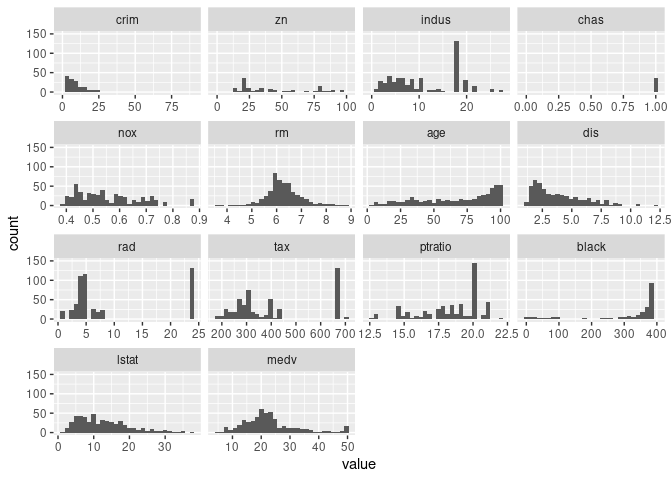
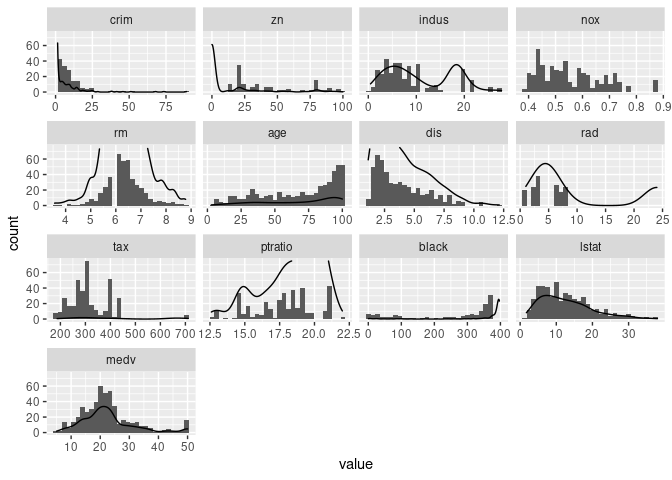
add gbm and clean up

diff --git a/BostonHousing.md b/BostonHousing.md
@@ -30,7 +30,7 @@ for our data
 Next we look at some basic information about how its captured
 
 ``` r
-str(Boston)
+str(df)
 ```
 
     ## 'data.frame':    506 obs. of  14 variables:
@@ -52,42 +52,48 @@ str(Boston)
 This shows us that all of our variables are numeric, with chas and rad
 being integers. As you can see from the dictionary above, chas is a
 dummy variable representing whether or not the tract bounds the river,
-so it’s best described as binary in this instance. Rad is listed as an
-index of accessibility, so I take this as being equivalent to a
-continuous variable like the others.
+so it’s best described as binary in this instance. I’m going to change
+it to a factor so it doesn’t mess with any of our calculations later.
 
 ``` r
-summary(Boston)
+df$chas <- as.factor(df$chas)
 ```
 
-    ##       crim                zn             indus            chas        
-    ##  Min.   : 0.00632   Min.   :  0.00   Min.   : 0.46   Min.   :0.00000  
-    ##  1st Qu.: 0.08205   1st Qu.:  0.00   1st Qu.: 5.19   1st Qu.:0.00000  
-    ##  Median : 0.25651   Median :  0.00   Median : 9.69   Median :0.00000  
-    ##  Mean   : 3.61352   Mean   : 11.36   Mean   :11.14   Mean   :0.06917  
-    ##  3rd Qu.: 3.67708   3rd Qu.: 12.50   3rd Qu.:18.10   3rd Qu.:0.00000  
-    ##  Max.   :88.97620   Max.   :100.00   Max.   :27.74   Max.   :1.00000  
-    ##       nox               rm             age              dis        
-    ##  Min.   :0.3850   Min.   :3.561   Min.   :  2.90   Min.   : 1.130  
-    ##  1st Qu.:0.4490   1st Qu.:5.886   1st Qu.: 45.02   1st Qu.: 2.100  
-    ##  Median :0.5380   Median :6.208   Median : 77.50   Median : 3.207  
-    ##  Mean   :0.5547   Mean   :6.285   Mean   : 68.57   Mean   : 3.795  
-    ##  3rd Qu.:0.6240   3rd Qu.:6.623   3rd Qu.: 94.08   3rd Qu.: 5.188  
-    ##  Max.   :0.8710   Max.   :8.780   Max.   :100.00   Max.   :12.127  
-    ##       rad              tax           ptratio          black       
-    ##  Min.   : 1.000   Min.   :187.0   Min.   :12.60   Min.   :  0.32  
-    ##  1st Qu.: 4.000   1st Qu.:279.0   1st Qu.:17.40   1st Qu.:375.38  
-    ##  Median : 5.000   Median :330.0   Median :19.05   Median :391.44  
-    ##  Mean   : 9.549   Mean   :408.2   Mean   :18.46   Mean   :356.67  
-    ##  3rd Qu.:24.000   3rd Qu.:666.0   3rd Qu.:20.20   3rd Qu.:396.23  
-    ##  Max.   :24.000   Max.   :711.0   Max.   :22.00   Max.   :396.90  
-    ##      lstat            medv      
-    ##  Min.   : 1.73   Min.   : 5.00  
-    ##  1st Qu.: 6.95   1st Qu.:17.02  
-    ##  Median :11.36   Median :21.20  
-    ##  Mean   :12.65   Mean   :22.53  
-    ##  3rd Qu.:16.95   3rd Qu.:25.00  
-    ##  Max.   :37.97   Max.   :50.00
+Rad is listed as an index of accessibility, so I take this as being
+equivalent to a continuous variable like the others.
+
+``` r
+summary(df)
+```
+
+    ##       crim                zn             indus       chas         nox        
+    ##  Min.   : 0.00632   Min.   :  0.00   Min.   : 0.46   0:471   Min.   :0.3850  
+    ##  1st Qu.: 0.08205   1st Qu.:  0.00   1st Qu.: 5.19   1: 35   1st Qu.:0.4490  
+    ##  Median : 0.25651   Median :  0.00   Median : 9.69           Median :0.5380  
+    ##  Mean   : 3.61352   Mean   : 11.36   Mean   :11.14           Mean   :0.5547  
+    ##  3rd Qu.: 3.67708   3rd Qu.: 12.50   3rd Qu.:18.10           3rd Qu.:0.6240  
+    ##  Max.   :88.97620   Max.   :100.00   Max.   :27.74           Max.   :0.8710  
+    ##        rm             age              dis              rad        
+    ##  Min.   :3.561   Min.   :  2.90   Min.   : 1.130   Min.   : 1.000  
+    ##  1st Qu.:5.886   1st Qu.: 45.02   1st Qu.: 2.100   1st Qu.: 4.000  
+    ##  Median :6.208   Median : 77.50   Median : 3.207   Median : 5.000  
+    ##  Mean   :6.285   Mean   : 68.57   Mean   : 3.795   Mean   : 9.549  
+    ##  3rd Qu.:6.623   3rd Qu.: 94.08   3rd Qu.: 5.188   3rd Qu.:24.000  
+    ##  Max.   :8.780   Max.   :100.00   Max.   :12.127   Max.   :24.000  
+    ##       tax           ptratio          black            lstat      
+    ##  Min.   :187.0   Min.   :12.60   Min.   :  0.32   Min.   : 1.73  
+    ##  1st Qu.:279.0   1st Qu.:17.40   1st Qu.:375.38   1st Qu.: 6.95  
+    ##  Median :330.0   Median :19.05   Median :391.44   Median :11.36  
+    ##  Mean   :408.2   Mean   :18.46   Mean   :356.67   Mean   :12.65  
+    ##  3rd Qu.:666.0   3rd Qu.:20.20   3rd Qu.:396.23   3rd Qu.:16.95  
+    ##  Max.   :711.0   Max.   :22.00   Max.   :396.90   Max.   :37.97  
+    ##       medv      
+    ##  Min.   : 5.00  
+    ##  1st Qu.:17.02  
+    ##  Median :21.20  
+    ##  Mean   :22.53  
+    ##  3rd Qu.:25.00  
+    ##  Max.   :50.00
 
 This output gives me a few areas I’d like to investigate further. The zn
 and chas variables seem to have a lot of 0s so that’s something I should
@@ -97,13 +103,17 @@ is also interesting.
 ``` r
 library(reshape2)
 library(ggplot2)
-d <- melt(Boston)
+d <- melt(df)
 ggplot(d,aes(x = value)) + 
     facet_wrap(~variable,scales = "free_x") + 
-    geom_histogram() + ylim(0,150)
+    geom_histogram() + 
+    geom_density(aes(y=..count..)) + ylim(0,75)
 ```
 
-    ## Warning: Removed 4 rows containing missing values (geom_bar).
+    ## Warning: Removed 11 rows containing missing values (geom_bar).
+
+    ## Warning in max(ids, na.rm = TRUE): no non-missing arguments to max; returning
+    ## -Inf
 
 ![](BostonHousing_files/figure-gfm/histogram-1.png)<!-- -->
 
@@ -117,16 +127,31 @@ shapes of the other histograms. The average number of rooms per dwelling
 `dis` and `lstat` also appear to have somewhat normal distributions but
 both have long right tails.
 
+``` r
+ggplot(d, aes(x=value)) +
+  facet_wrap(~variable,scales = "free_x") + 
+    geom_boxplot()
+```
+
+![](BostonHousing_files/figure-gfm/initial_box_plot-1.png)<!-- -->
+
+In some ways I find these boxplots to be more informative than the
+histogram and density plots shown previously. Here we can see even more
+strongly the effect of `crim` and `zn` having a large count of 0s as
+shown by the small box and large quantity of outliers. `black` is
+interesting as well with the small box to the right and large quantity
+of outliers to the left.
+
 ## Linear Model - the wrong way
 
 ``` r
-lm1 <- lm(medv~., data=Boston)
+lm1 <- lm(medv~., data=df)
 summary(lm1)
 ```
 
     ## 
     ## Call:
-    ## lm(formula = medv ~ ., data = Boston)
+    ## lm(formula = medv ~ ., data = df)
     ## 
     ## Residuals:
     ##     Min      1Q  Median      3Q     Max 
@@ -138,7 +163,7 @@ summary(lm1)
     ## crim        -1.080e-01  3.286e-02  -3.287 0.001087 ** 
     ## zn           4.642e-02  1.373e-02   3.382 0.000778 ***
     ## indus        2.056e-02  6.150e-02   0.334 0.738288    
-    ## chas         2.687e+00  8.616e-01   3.118 0.001925 ** 
+    ## chas1        2.687e+00  8.616e-01   3.118 0.001925 ** 
     ## nox         -1.777e+01  3.820e+00  -4.651 4.25e-06 ***
     ## rm           3.810e+00  4.179e-01   9.116  < 2e-16 ***
     ## age          6.922e-04  1.321e-02   0.052 0.958229    
@@ -177,7 +202,7 @@ set.seed(123)
 train.control <- trainControl(method = "repeatedcv", 
                               number = 10, repeats = 3)
 # Train the model
-model <- train(medv ~., data = Boston, method = "lm",
+model <- train(medv ~., data = df, method = "lm",
                trControl = train.control)
 # Summarize the results
 print(model)
@@ -197,3 +222,59 @@ print(model)
     ##   4.806297  0.7284322  3.38933
     ## 
     ## Tuning parameter 'intercept' was held constant at a value of TRUE
+
+So our first attempt we have a RMSE or 4.806 or 21% of the mean of
+`medv` and a MAE of 3.38. Let’s see if we can do any better.
+
+### Stochastic Gradient Boosting
+
+Next we try running a gradient boosting model on it. We’re going to use
+repeated cross-validation here, so it’s going to split the data into 10
+pieces, train on 9 and test on the 10th, 3 times.
+
+``` r
+# Define training control
+set.seed(123)
+train.control <- trainControl(method = "repeatedcv", 
+                              number = 10, repeats = 3)
+# Train the model
+model <- train(medv ~., data = df, method = "gbm",
+               trControl = train.control)
+```
+
+``` r
+# Summarize the results
+print(model)
+```
+
+    ## Stochastic Gradient Boosting 
+    ## 
+    ## 506 samples
+    ##  13 predictor
+    ## 
+    ## No pre-processing
+    ## Resampling: Cross-Validated (10 fold, repeated 3 times) 
+    ## Summary of sample sizes: 455, 456, 456, 456, 456, 456, ... 
+    ## Resampling results across tuning parameters:
+    ## 
+    ##   interaction.depth  n.trees  RMSE      Rsquared   MAE     
+    ##   1                   50      4.135202  0.8007898  2.904629
+    ##   1                  100      3.783353  0.8284978  2.623422
+    ##   1                  150      3.701101  0.8363079  2.560124
+    ##   2                   50      3.697815  0.8360651  2.555160
+    ##   2                  100      3.461828  0.8558121  2.414102
+    ##   2                  150      3.378508  0.8632860  2.358728
+    ##   3                   50      3.529874  0.8502159  2.425804
+    ##   3                  100      3.297945  0.8694818  2.272839
+    ##   3                  150      3.221971  0.8759659  2.222798
+    ## 
+    ## Tuning parameter 'shrinkage' was held constant at a value of 0.1
+    ## 
+    ## Tuning parameter 'n.minobsinnode' was held constant at a value of 10
+    ## RMSE was used to select the optimal model using the smallest value.
+    ## The final values used for the model were n.trees = 150, interaction.depth =
+    ##  3, shrinkage = 0.1 and n.minobsinnode = 10.
+
+Here we can see we’ve improved, we’re now at a RMSE of 3.22 and MAE of
+2.22. Can we do any better by going back to the data and performing some
+transformations on the data?
